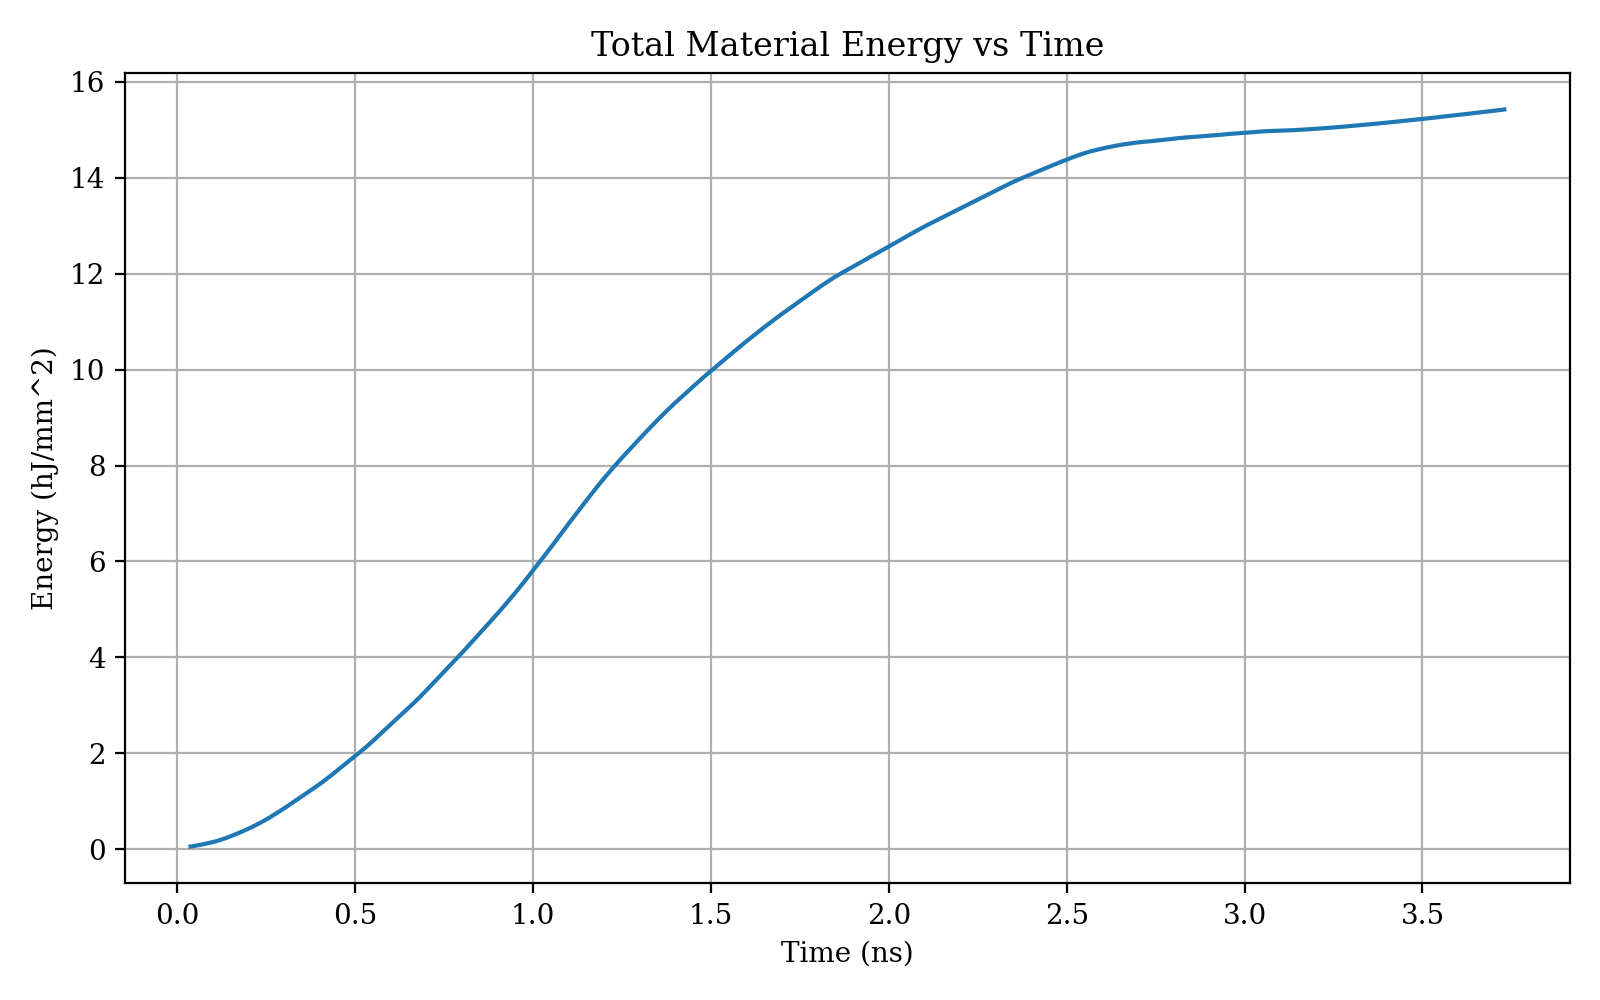
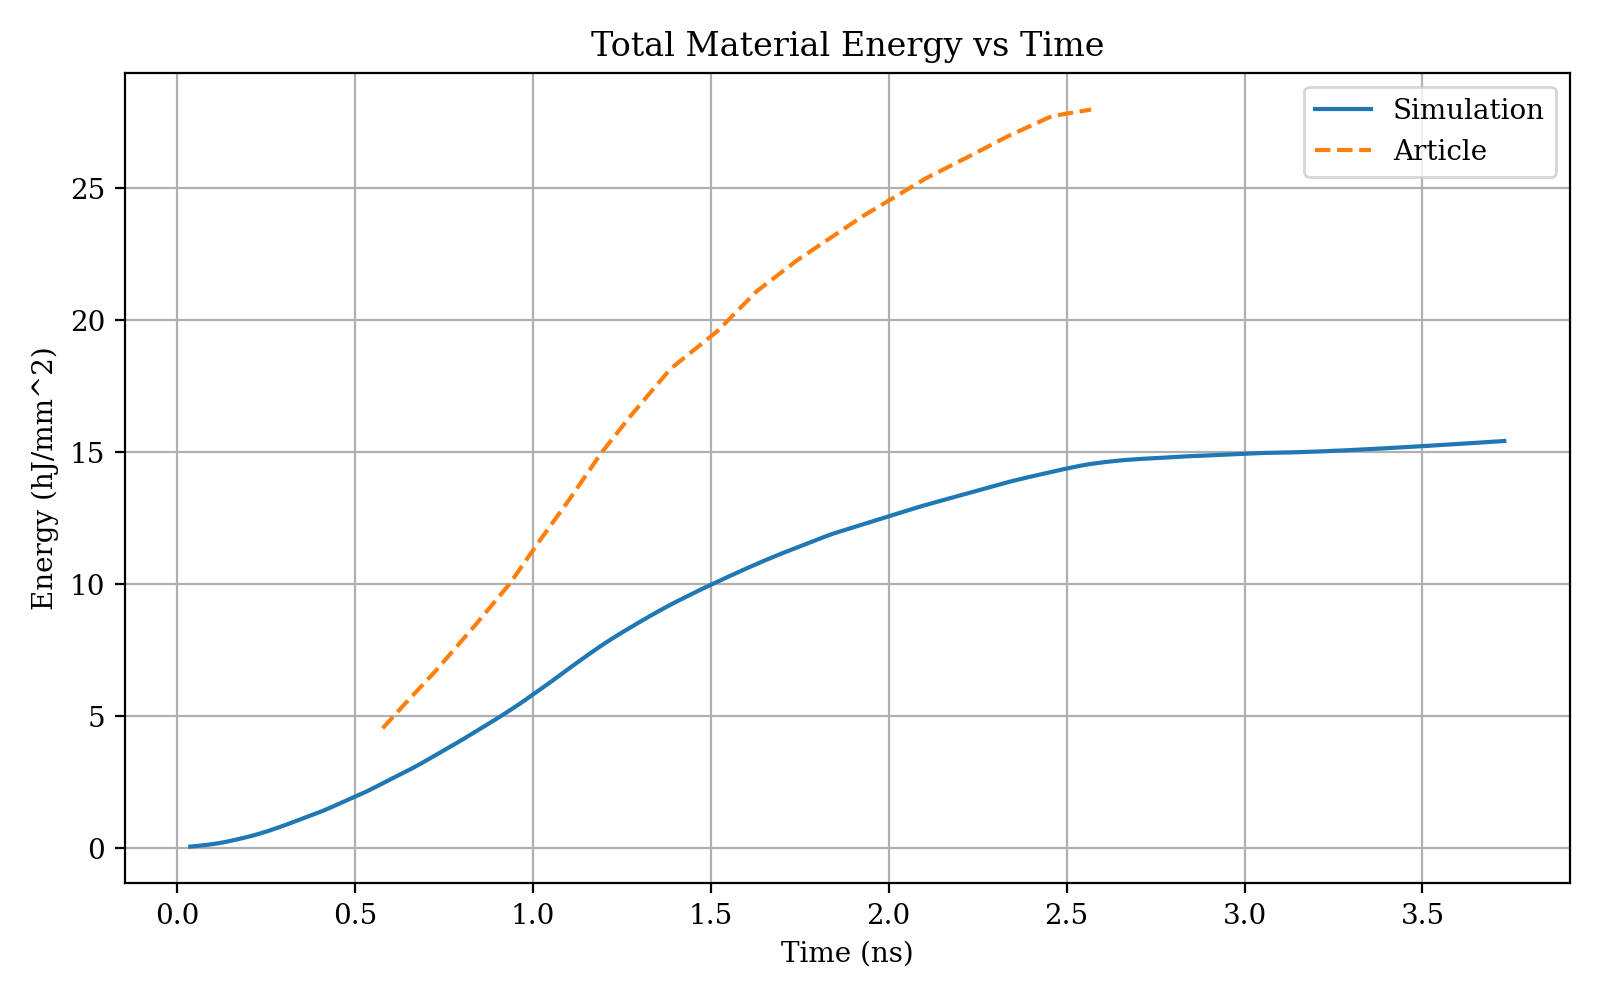
VFv

diff --git a/1D_simulation/simulation_1d_pipeline.py b/1D_simulation/simulation_1d_pipeline.py
@@ -78,7 +78,7 @@ def save_run_data(file_path, stored_t, stored_Um=None, stored_Tm=None, stored_TR
     return file_path
 
 
-def plot_run_outputs(sim, stored_t, stored_Tm, front_positions, total_energies):
+def plot_run_outputs(sim, stored_t, stored_Tm, front_positions, total_energies, material=None):
     """Save a compact set of standard 1D run plots."""
     ensure_dir(FIGURES_DIR)
 
@@ -112,7 +112,20 @@ def plot_run_outputs(sim, stored_t, stored_Tm, front_positions, total_energies):
 
     # 3) Total material energy vs time
     fig, ax = plt.subplots(figsize=(8, 5))
-    ax.plot(stored_t, total_energies)
+    
+    if material == "SiO2":
+        ax.plot(stored_t, total_energies, label="Simulation")
+        csv_path = BASE_DIR / "Data_new" / "Back" / "SiO2" / "article" / "energies" / "total_energy_1D.csv"
+        if csv_path.exists():
+            try:
+                data = np.genfromtxt(csv_path, delimiter=',', names=True)
+                ax.plot(data['x'], data['y'], '--', label="Article")
+                ax.legend()
+            except Exception as e:
+                print(f"Could not load article data: {e}")
+    else:
+        ax.plot(stored_t, total_energies)
+        
     ax.set_xlabel("Time (ns)")
     ax.set_ylabel("Energy (hJ/mm^2)")
     ax.set_title("Total Material Energy vs Time")
@@ -133,7 +146,7 @@ def run_default_pipeline(*, material: str = Material):
     sim.save_outputs(stored_t, stored_Um, stored_Tm, stored_TR, marshak_boundary=True)
 
     front_positions, total_energies = sim.compute_front_and_energy(stored_Um, stored_Tm)
-    plot_run_outputs(sim, stored_t, stored_Tm, front_positions, total_energies)
+    plot_run_outputs(sim, stored_t, stored_Tm, front_positions, total_energies, material=material)
 
     return {
         "sim": sim,

diff --git a/1D_simulation/simulation.py b/1D_simulation/simulation.py
@@ -6,6 +6,7 @@ if str(PROJECT_ROOT) not in sys.path:
     sys.path.insert(0, str(PROJECT_ROOT))
 
 from parameters import *
+from tqdm import tqdm
 
 # find q such that dr0 + dr0*q + dr0*q^2 + ... + dr0*q^(N-1) =~ gold_width
 def solve_q_from_dz0(gold_width, N, dz0):
@@ -267,7 +268,7 @@ class GoldFoam1DSimulation:
         stored_t, stored_Um, stored_Tm, stored_TR = [], [], [], []
         t = 0.0
         dt_local = self.dt
-        pbar = tqdm.tqdm(total=self.t_final, desc="Simulating", unit="s", ncols=100)
+        pbar = tqdm(total=self.t_final, desc="Simulating", unit="s", ncols=100)
 
         while t < self.t_final - 1e-30:
             dt_local = min(dt_local, self.t_final - t)
